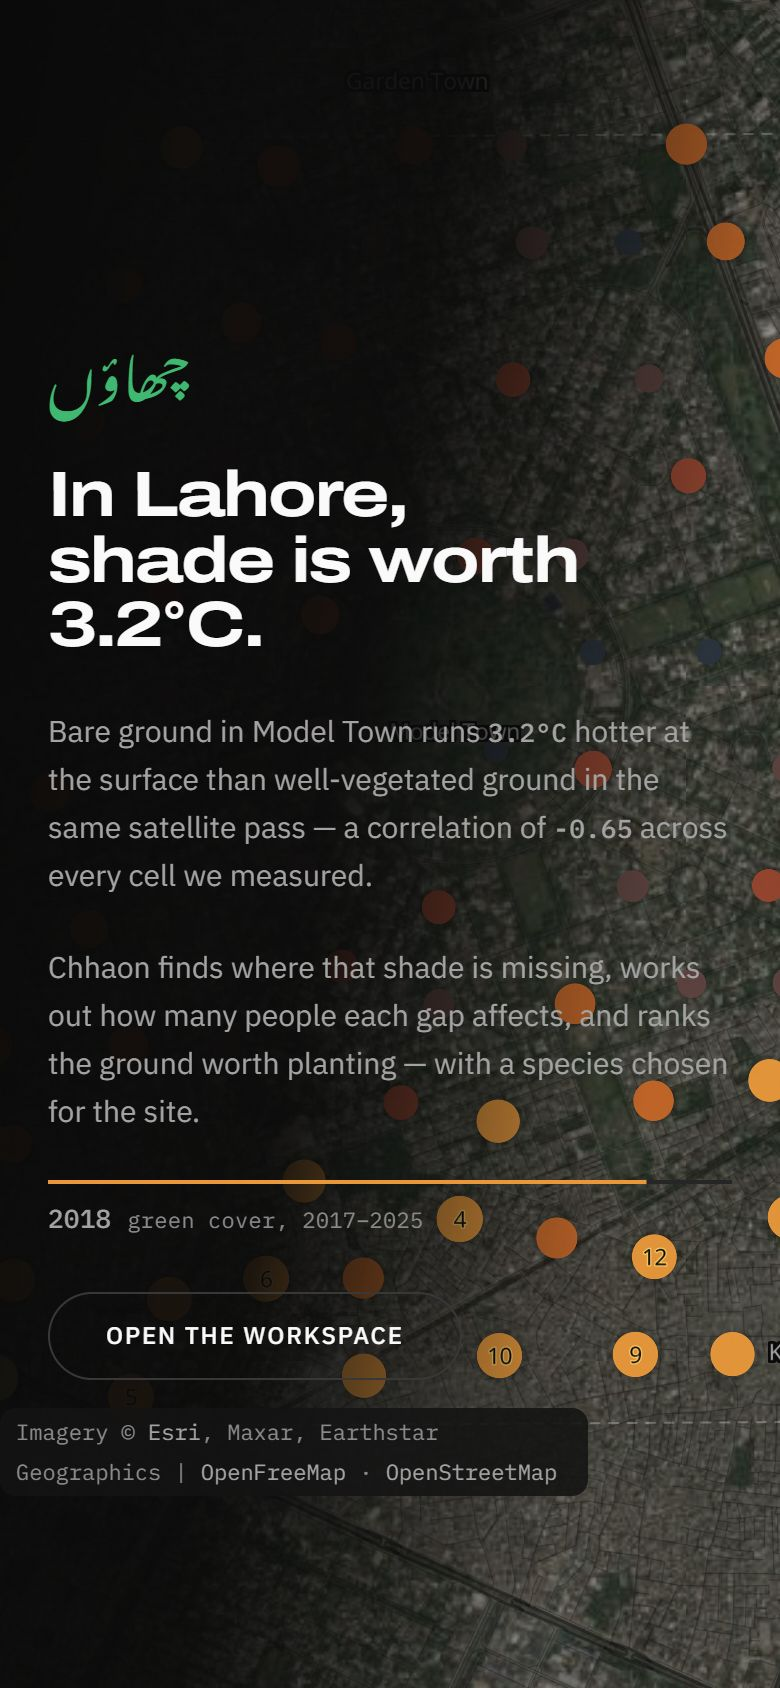
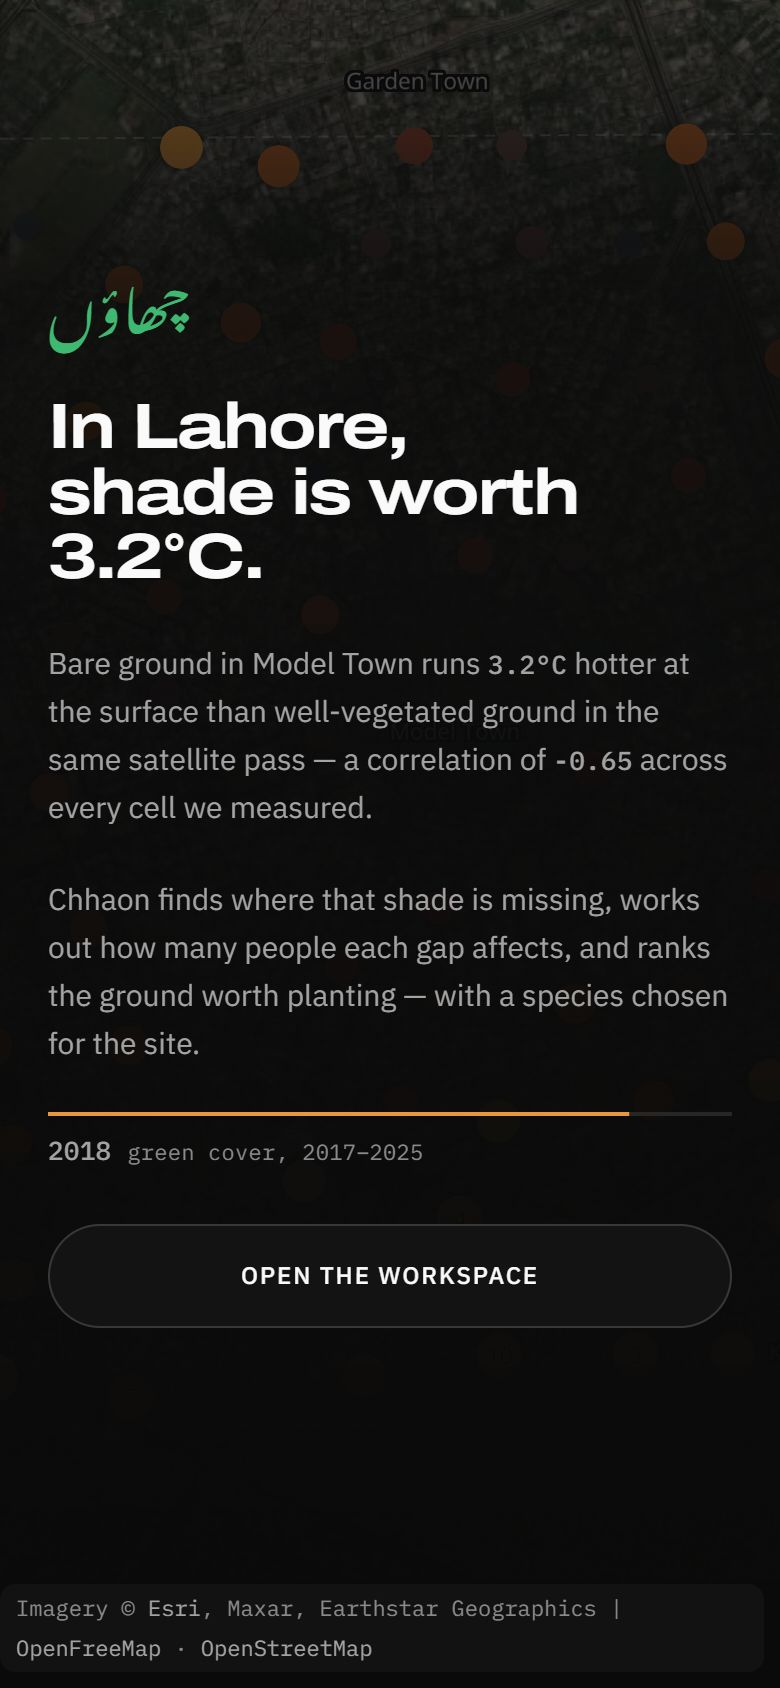
Stop the map chrome landing on the overture button on a phone
Two desktop assumptions leaked onto small screens.

The attribution is offset by the thermal scale and the scrubber — 96px in
from the right and up from the bottom. Neither exists on mobile, so that
turned it into a near-full-width bar floating off the corner. At 390x844 it
cleared the call to action by 14px; at 390x664, an iPhone in Safari once
browser chrome is taken off, it landed on top of it outright.

The overture scrim fades out at 78% across, which works beside a 34rem column
on a wide screen and does nothing when the column is the full width: the
numbered site dots read straight through the headline, the copy and the
button. Phones get a vertical scrim instead, so the live map still shows at
the top as texture while the type sits on solid ground, and the button gets
its own plate so it reads as a control rather than as part of the map.

mobileshots.mjs only ever ran at 390x844 — the roomiest phone there is, and
the one height where this did not collide. It now runs its assertions at
390x664 and 360x640 as well, and checks that nothing covers the button.

diff --git a/src/styles/app.css b/src/styles/app.css
@@ -1557,3 +1557,45 @@ kbd {
 .app.is-mobile .plate__close { width: 48px; height: 48px; font-size: 1.75rem; }
 .app.is-mobile .msheet__grab { height: 34px; }
 .app.is-mobile .plate__loc { gap: calc(var(--u) * 2); margin-top: calc(var(--u) * 2); }
+
+/* ---------- The cold open, on a phone ----------
+   Two things went wrong here, and both come from desktop assumptions.
+
+   First the attribution: the rule at the top of this file offsets it by the
+   thermal scale and the scrubber — 96px in from the right and up from the
+   bottom. That is correct beside desktop chrome and wrong on a 390px screen,
+   where it makes the attribution a near-full-width bar floating 96px off the
+   corner. At 844px tall it clears the button by 14px; at 664px — an iPhone in
+   Safari with its browser chrome — it lands directly on top of it. Neither the
+   scale nor the scrubber exists on mobile, so put the attribution back in the
+   corner and reserve enough room below the content that a three-line wrap on a
+   360px screen still cannot reach it. */
+.app--overture.is-mobile .maplibregl-ctrl-bottom-right {
+  margin: 0 8px max(8px, env(safe-area-inset-bottom)) 0;
+}
+
+/* Second the scrim. The desktop gradient fades out at 78% across, which works
+   beside a 34rem column on a wide screen and does nothing on a phone, where
+   the column is the full width: the numbered site dots read straight through
+   the headline, the body copy and the button. Phones get a vertical scrim
+   instead — the live map still shows at the top, where it is texture, and the
+   type sits on solid ground. */
+.app.is-mobile .overture {
+  padding-bottom: max(calc(var(--u) * 21), calc(env(safe-area-inset-bottom) + var(--u) * 21));
+  background: linear-gradient(
+    to bottom,
+    color-mix(in srgb, var(--plate-0) 50%, transparent) 0%,
+    color-mix(in srgb, var(--plate-0) 88%, transparent) 18%,
+    color-mix(in srgb, var(--plate-0) 95%, transparent) 46%,
+    var(--plate-0) 100%
+  );
+}
+
+/* Seated on its own plate and full width, so under a thumb it reads as a
+   control rather than as something drawn on the map. */
+.app.is-mobile .overture__enter {
+  width: 100%;
+  min-height: 52px;
+  background: var(--plate-1);
+  border-color: var(--hairline-firm);
+}
